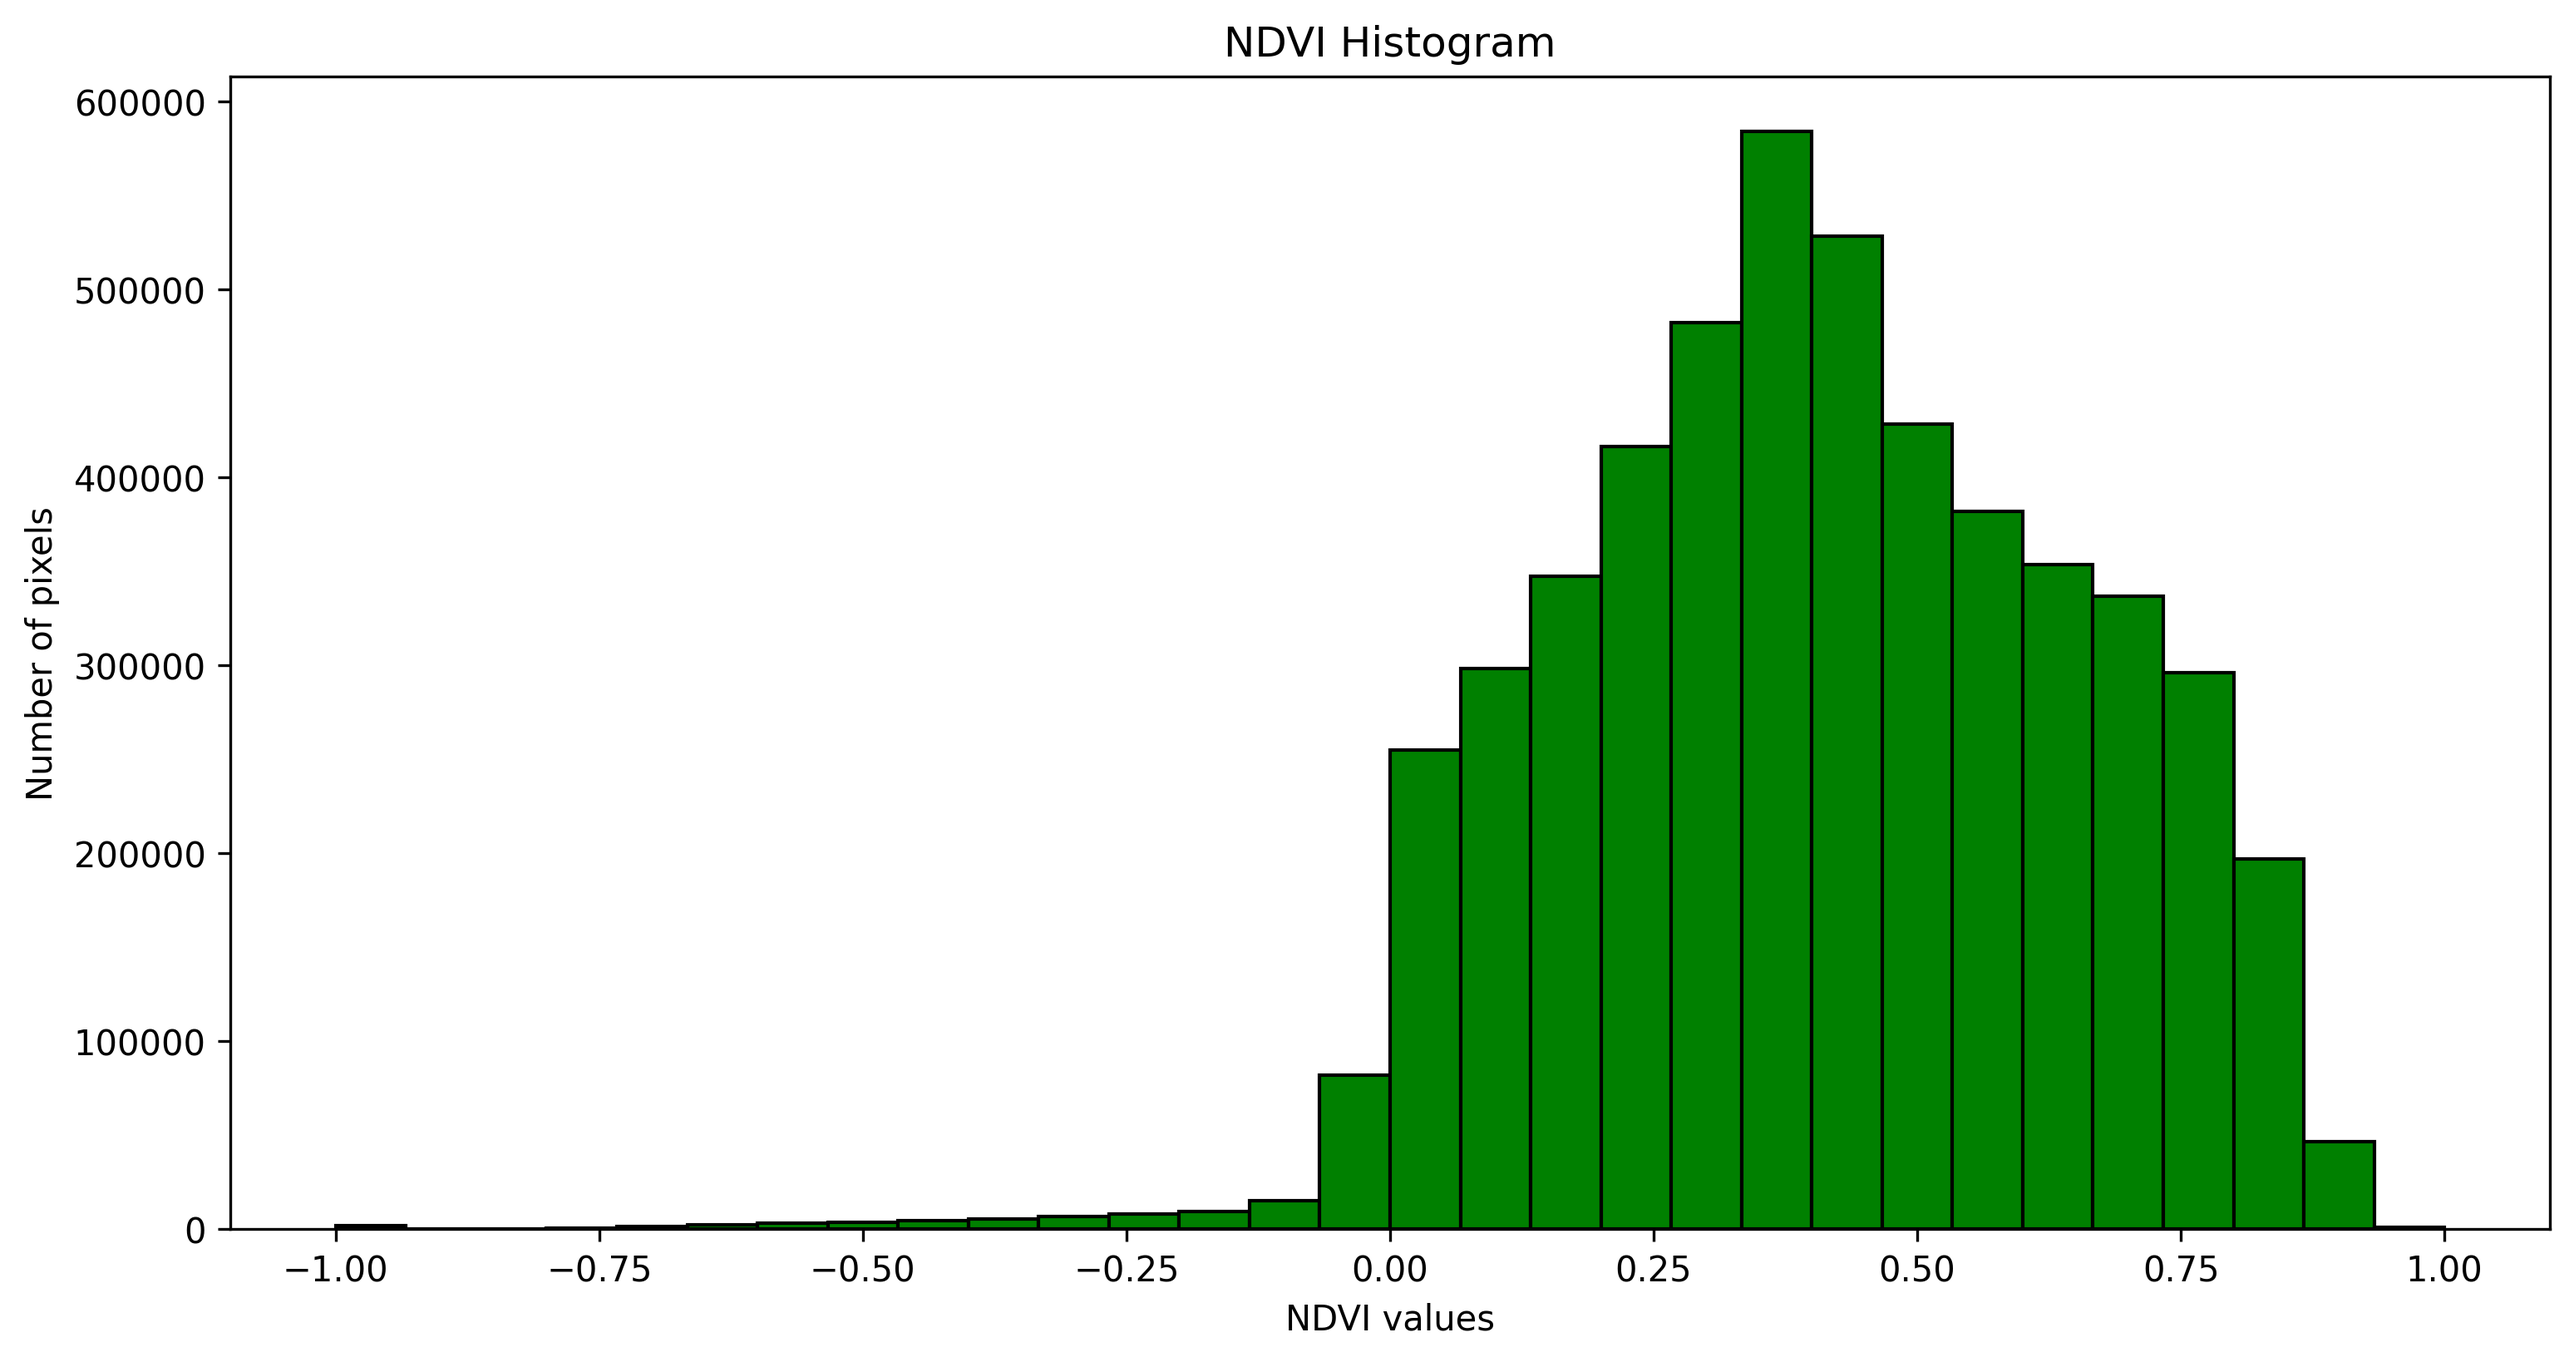
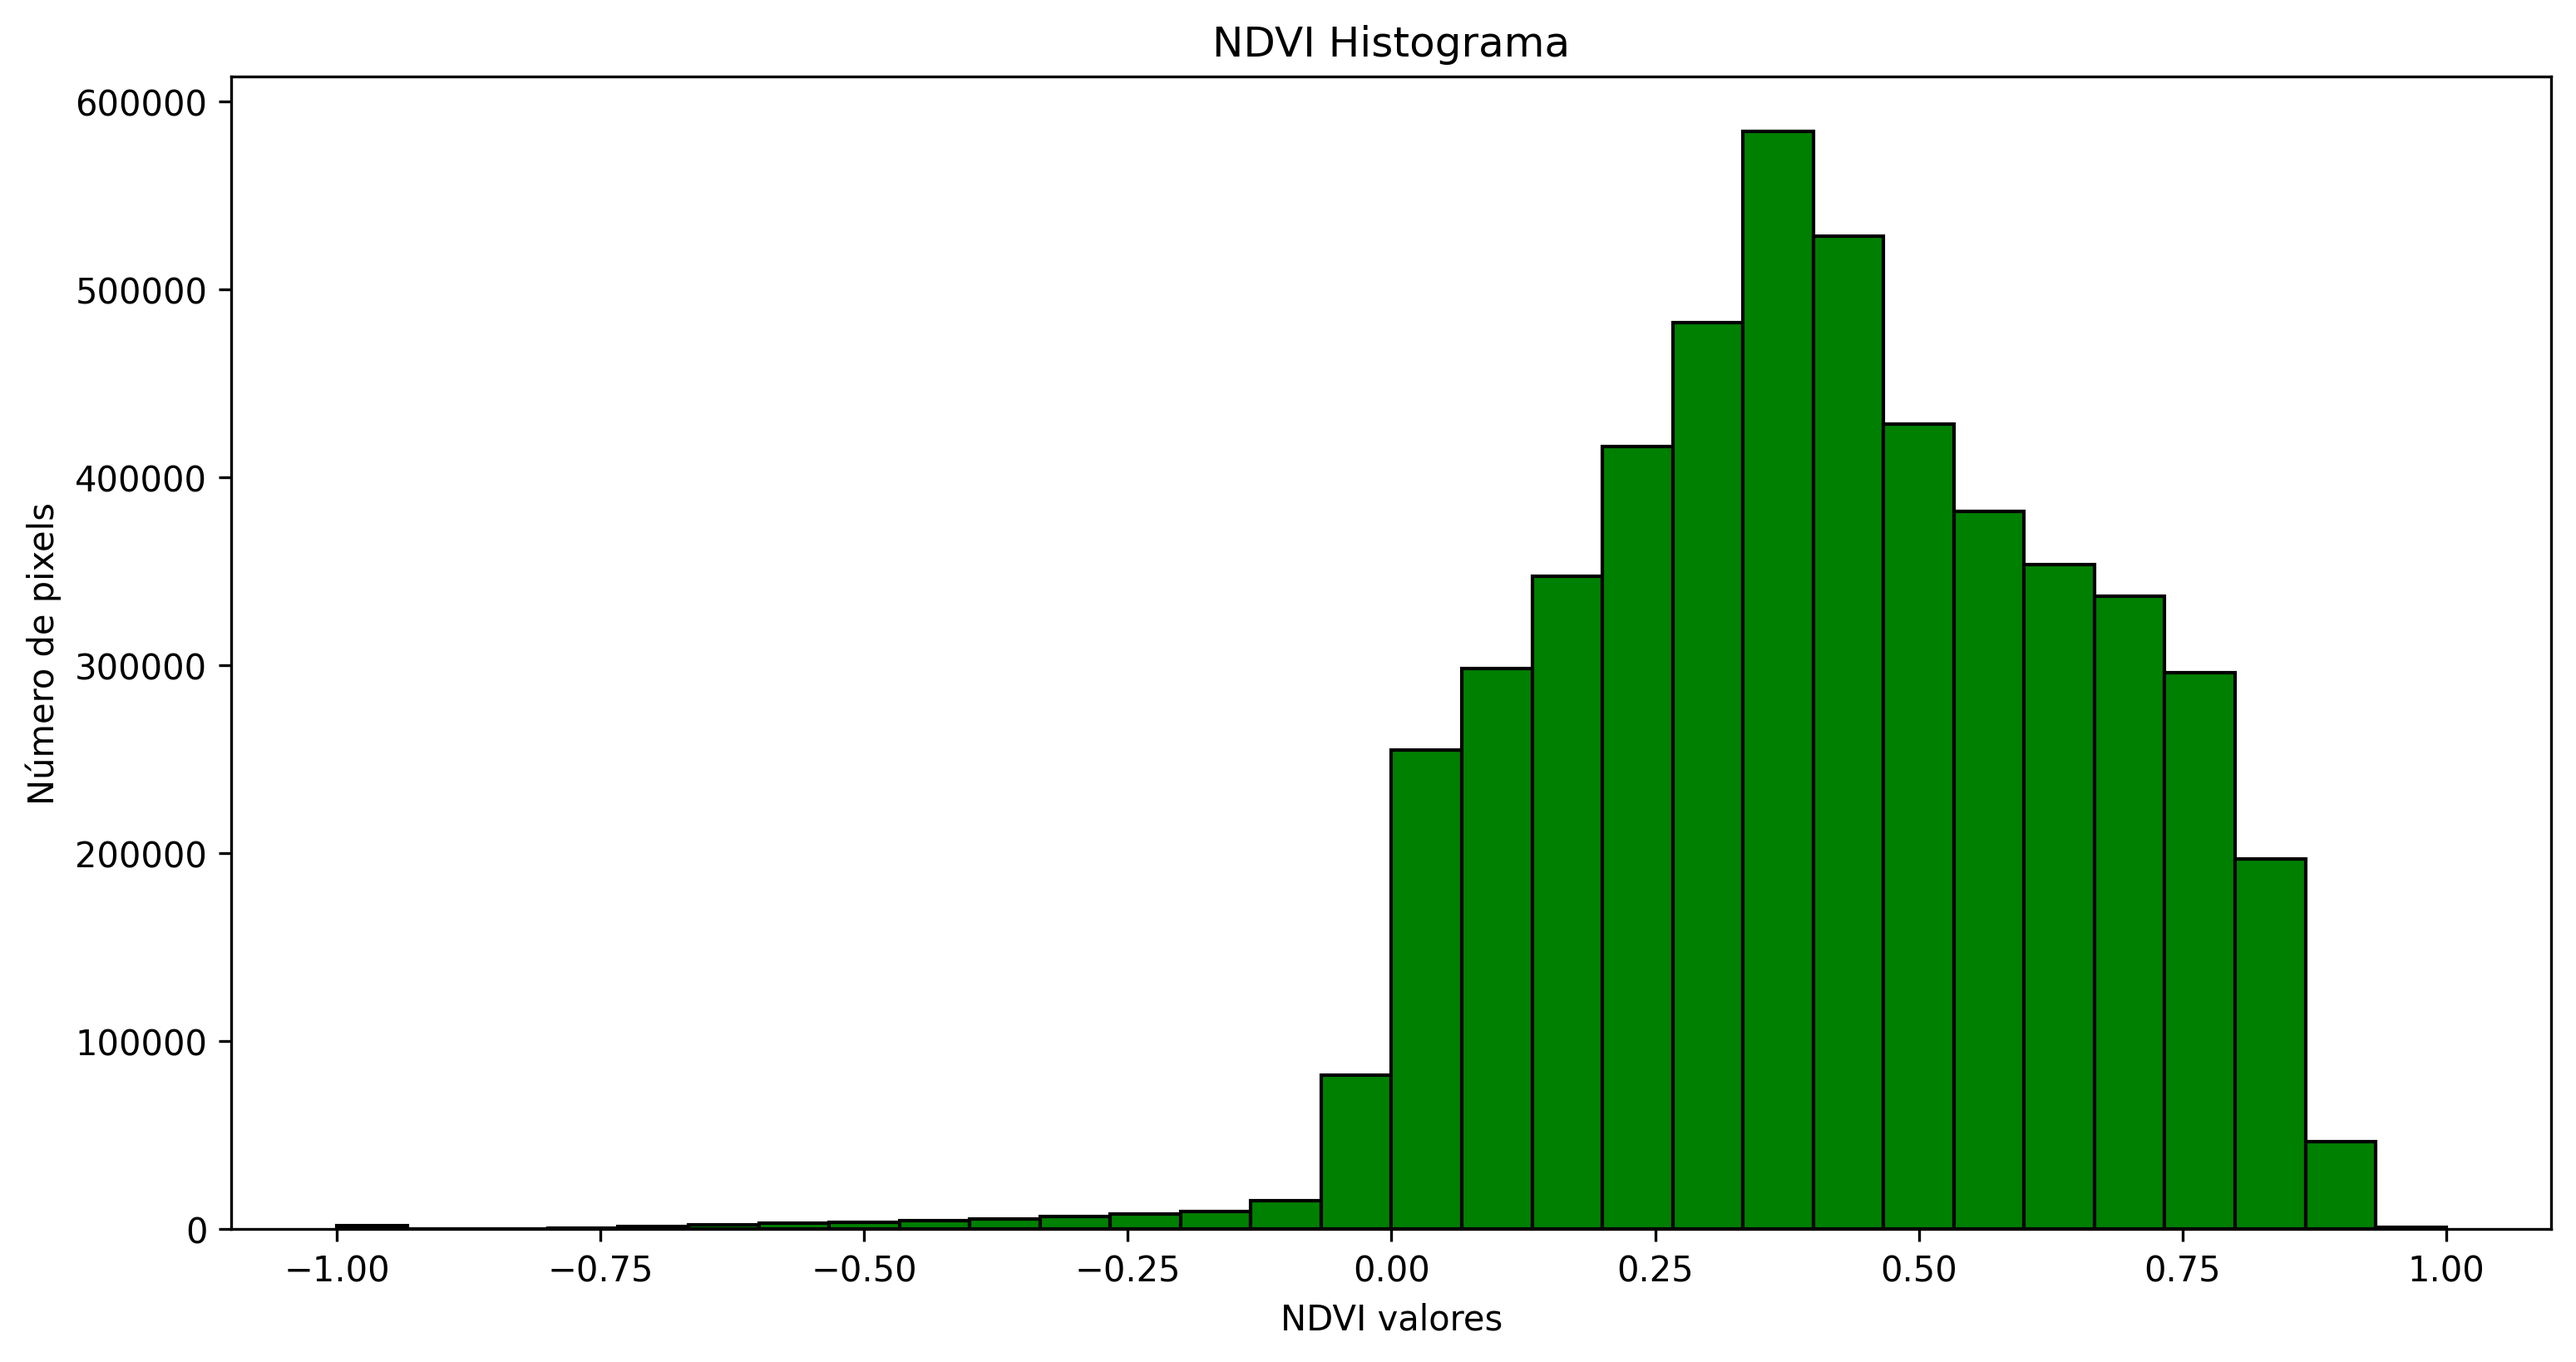
Atualização de código

diff --git a/modules/ndvi_analysis/scripts/ndvi_processing.py b/modules/ndvi_analysis/scripts/ndvi_processing.py
@@ -62,7 +62,7 @@ def plot_ndvi(ndvi):
     cbar_plot = ax.imshow(ndvi, cmap=colormap, vmin=min_val, vmax=max_val)
 
     ax.axis('off')
-    ax.set_title("Normalized Difference Vegetation Index")
+    ax.set_title("Índice de Vegetação por Diferença Normalizada")
 
     fig.colorbar(cbar_plot, orientation='horizontal', shrink=0.65)
     fig.savefig("outputs/ndvi_fort_lauderdale.png", dpi=300, bbox_inches='tight')
@@ -79,9 +79,9 @@ def plot_histogram(ndvi):
     x = ndvi[~np.isnan(ndvi)]
     ax.hist(x, bins=30, color='green', ec='black')
 
-    ax.set_title("NDVI Histogram")
-    ax.set_xlabel("NDVI values")
-    ax.set_ylabel("Number of pixels")
+    ax.set_title("NDVI Histograma")
+    ax.set_xlabel("NDVI valores")
+    ax.set_ylabel("Número de pixels")
 
     fig.savefig("outputs/histograma_fort_lauderdale.png", dpi=300, bbox_inches='tight')
 
@@ -106,7 +106,7 @@ def plot_classification(classified):
     im = ax.imshow(classified, cmap=cmap, vmin=1, vmax=6)
 
     ax.axis('off')
-    ax.set_title("NDVI Classification")
+    ax.set_title("NDVI Classificação")
 
     fig.savefig("outputs/ndvi_classificado.png",
                 dpi=300, bbox_inches='tight')
@@ -125,7 +125,7 @@ def plot_median_filtered(median_filtered):
     im = ax.imshow(median_filtered, cmap=cmap, vmin=1, vmax=6)
 
     ax.axis('off')
-    ax.set_title("NDVI Classification - Median Filtered")
+    ax.set_title("NDVI Classificação - Filtro Mediano")
 
     fig.savefig("outputs/ndvi_filtro_mediano.png",
                 dpi=300, bbox_inches='tight')
@@ -157,10 +157,10 @@ def main():
     plot_histogram(ndvi)
 
     classified = classify_ndvi(ndvi)
-    plot_classification(classified)           # plota e salva a classificação
+    plot_classification(classified)           
 
     smoothed = smooth_classification(classified)
-    plot_median_filtered(smoothed)            # plota e salva a classificação com filtro de mediana
+    plot_median_filtered(smoothed)            
 
 
 if __name__ == "__main__":
